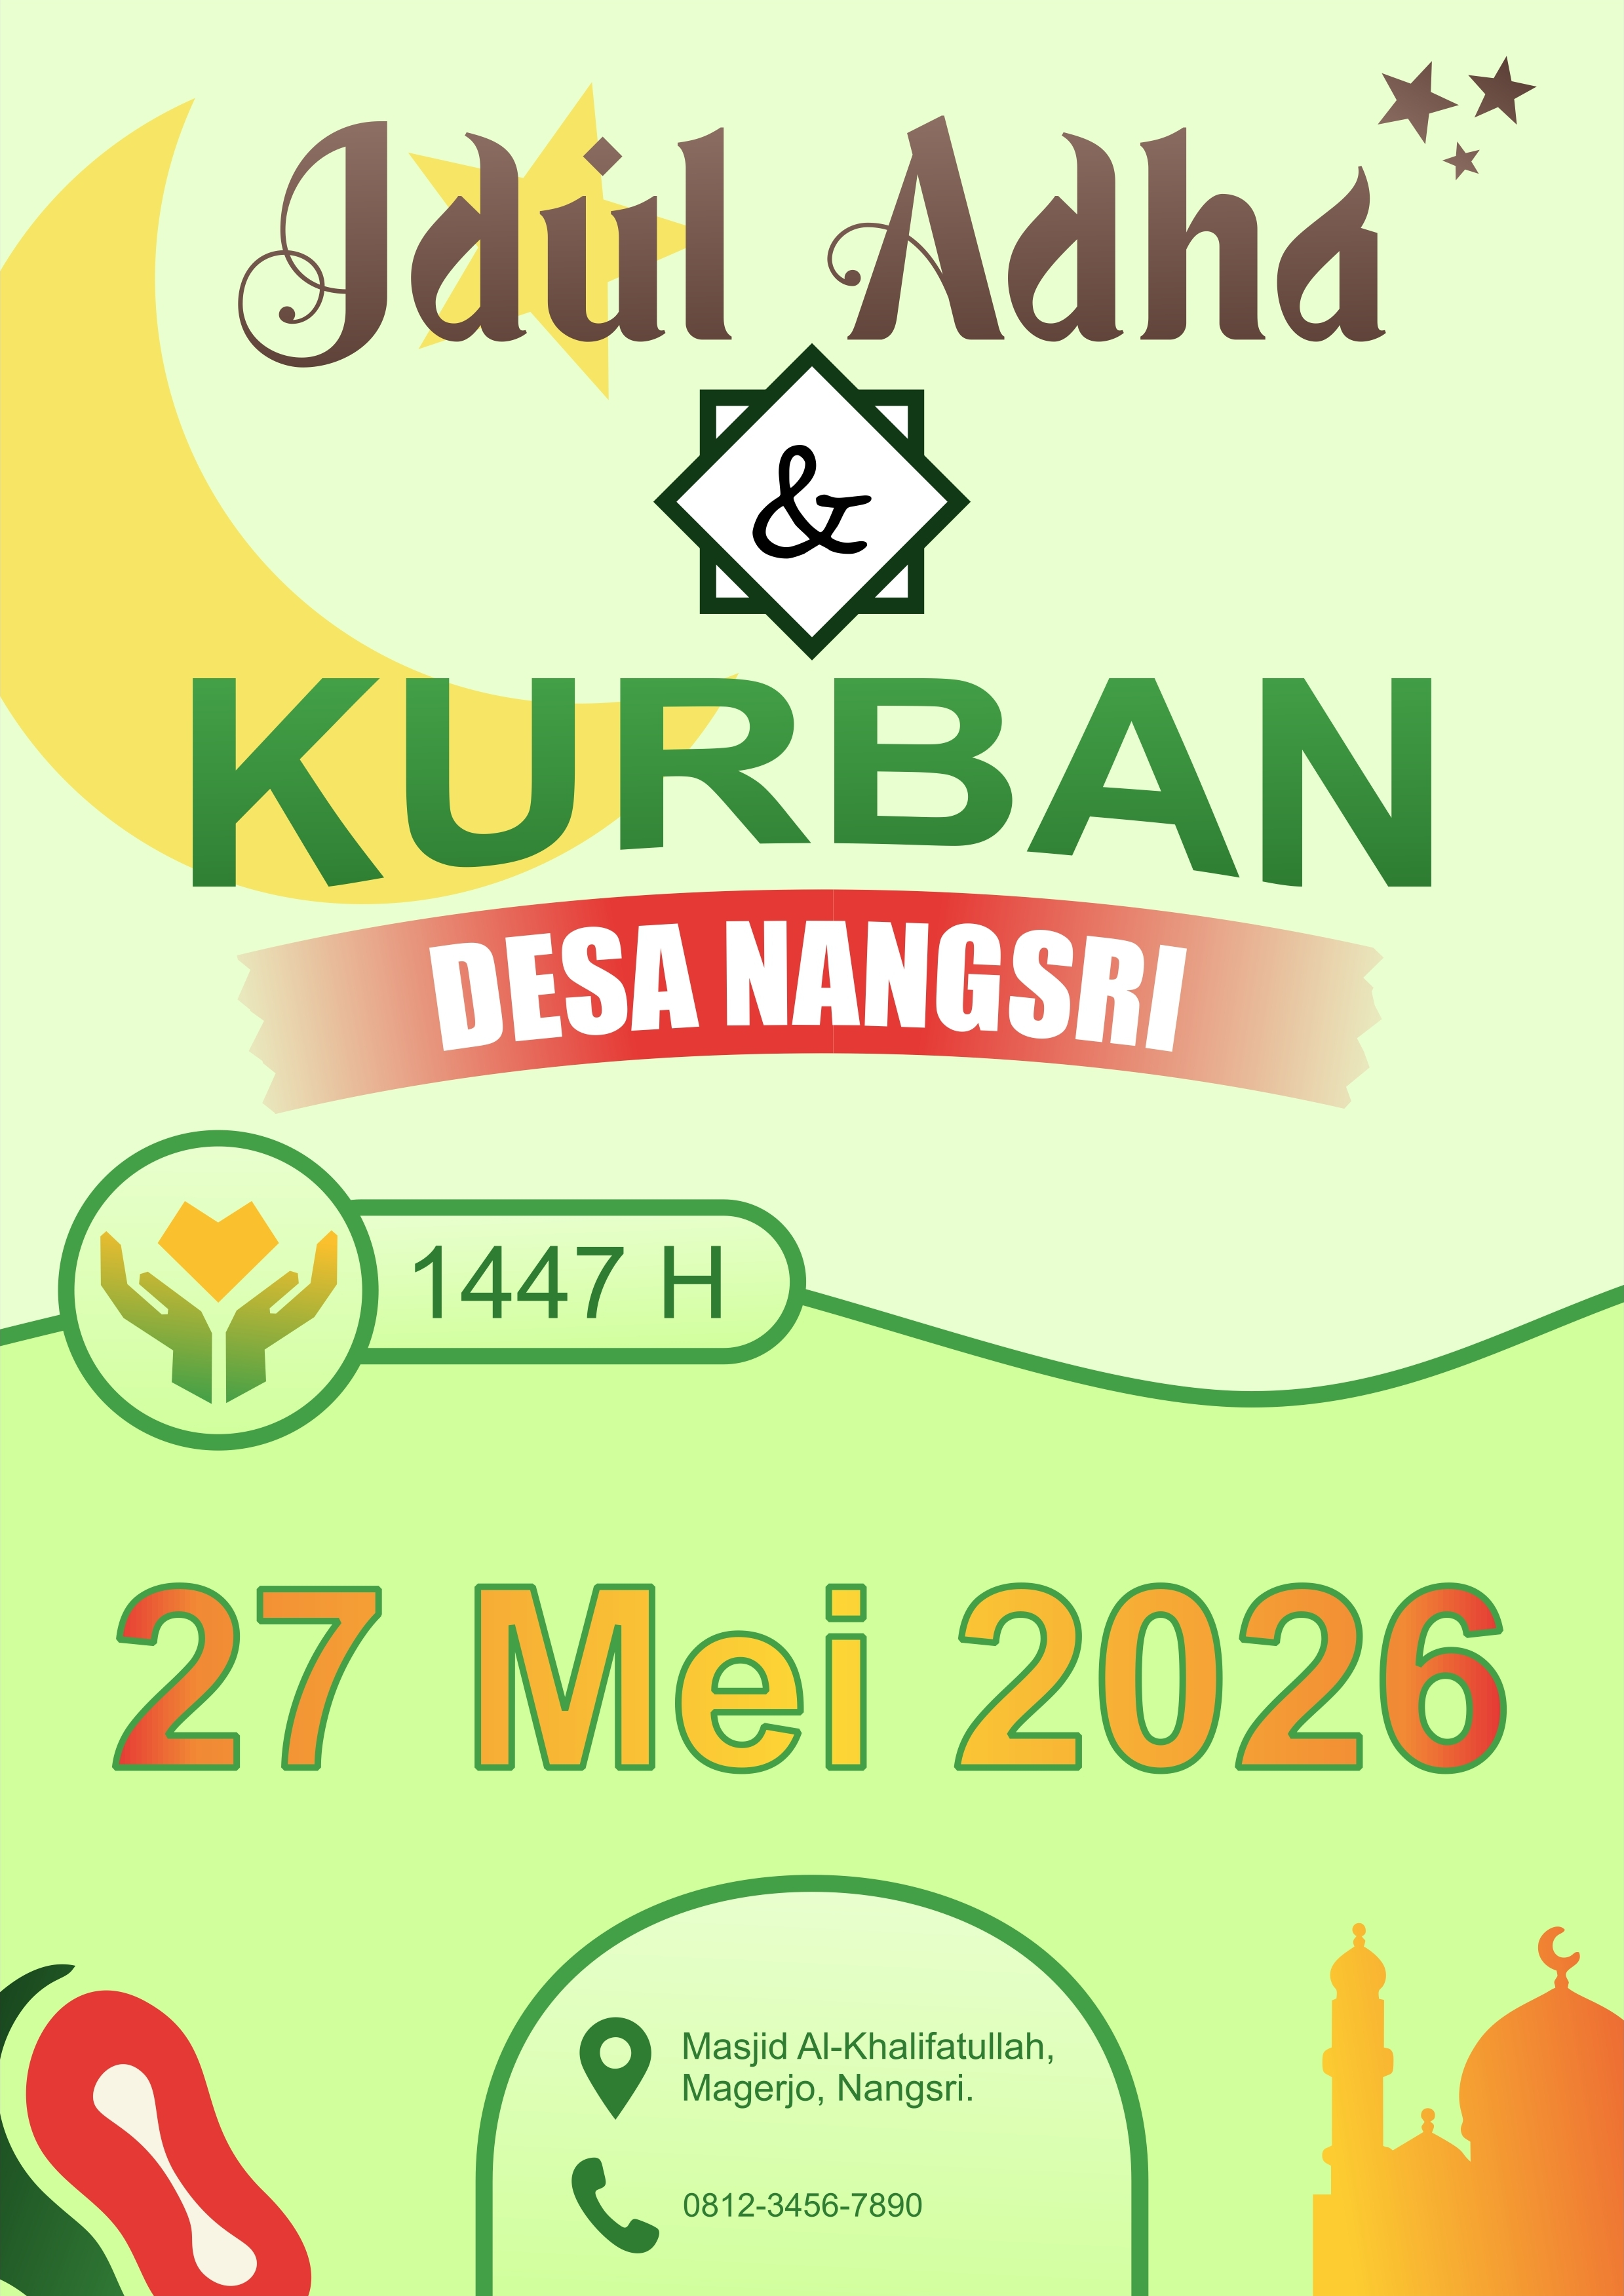
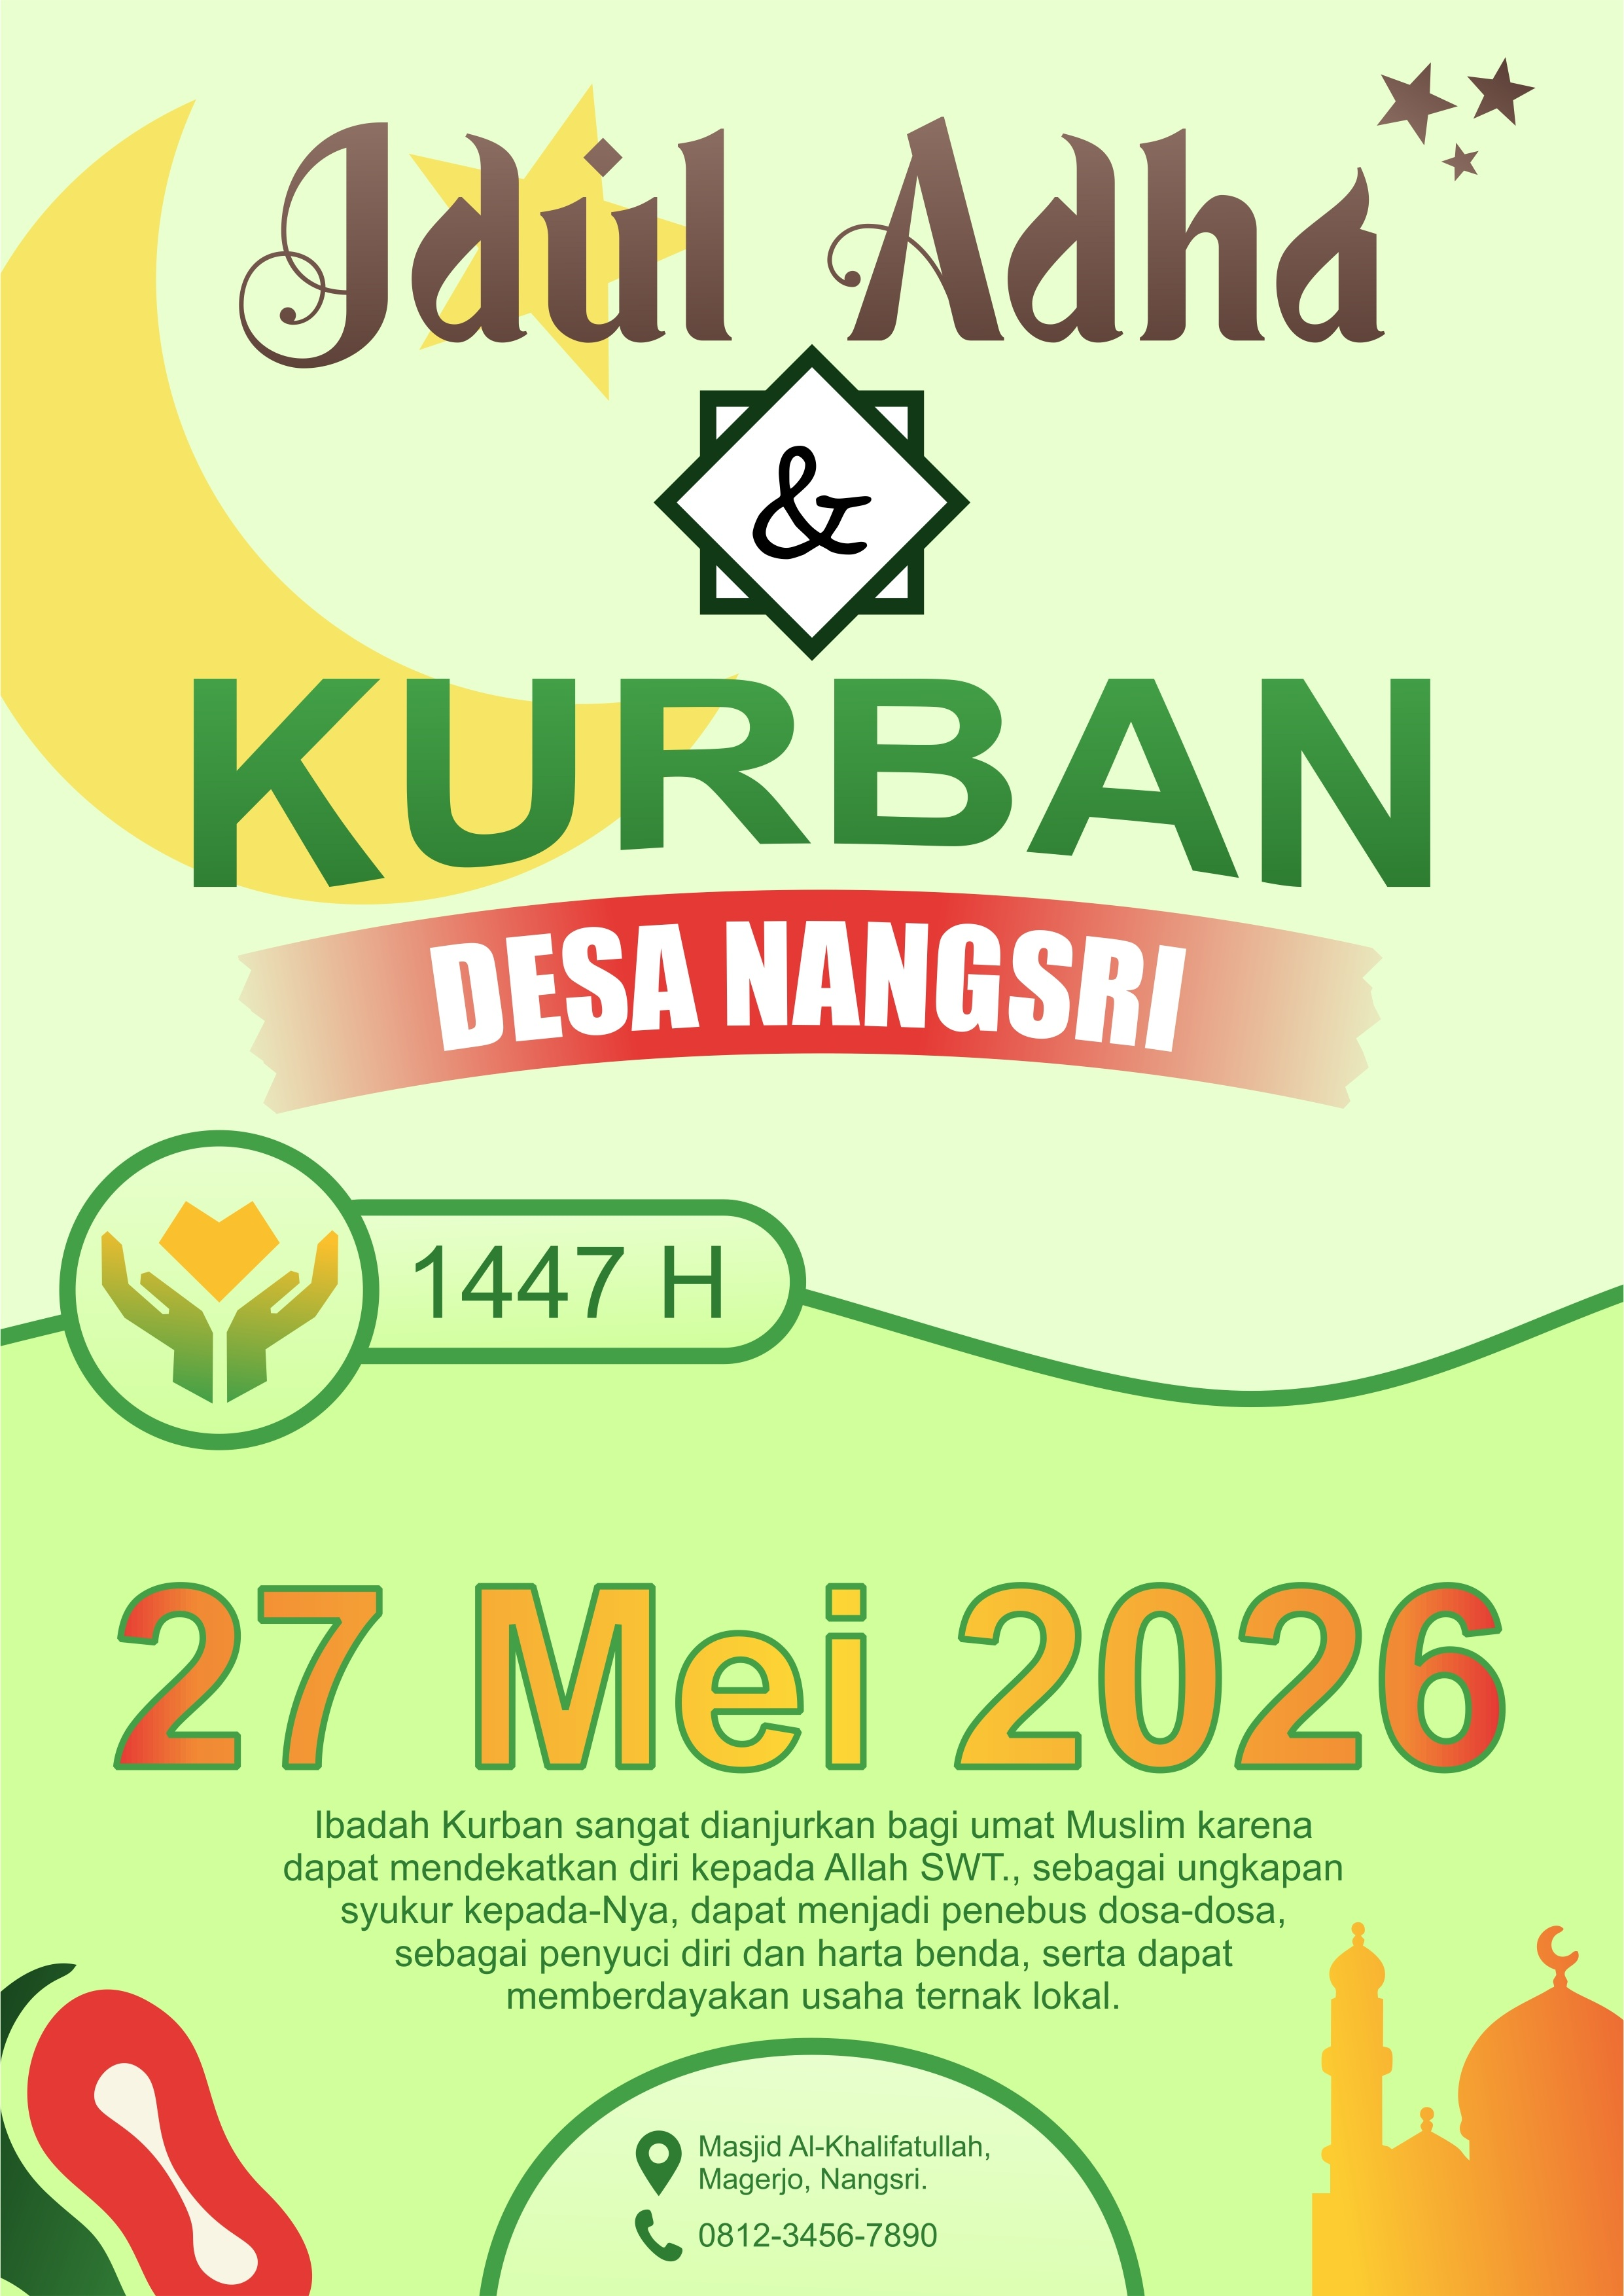
mmm

diff --git a/style.css b/style.css
@@ -5,9 +5,9 @@
   --bg-dark: rgb(71, 92, 45);
   --text-dark: rgb(0, 0, 0);
   --light-v: rgb(138, 138, 255);
-  --dark-v: blue;
+  --dark-v: rgb(0, 0, 255);
   --light-m: rgb(255, 138, 138);
-  --dark-m: red;
+  --dark-m: rgb(255, 0, 0);
   --light-vorm: rgb(208, 138, 255);
   --dark-vorm: rgb(102, 0, 255);
   --eat-speed: 0.5s;
@@ -161,7 +161,7 @@ nav {
 }
 
 .banner-container {
-  background: #e5e5d1;
+  background: #566167;
   margin: auto;
   border-radius: var(--border-radius);
   width: 1500px;
@@ -479,98 +479,6 @@ nav {
   color: rgba(255, 255, 255, 0);
   overflow: hidden;
   animation: smaller-h var(--eat-speed) ease;
-}
-
-@keyframes m-change-color {
-  0% {
-    background: linear-gradient(180deg, rgb(255, 138, 138), rgb(255, 0, 0));
-  }
-
-  10% {
-    background: linear-gradient(180deg, rgb(250, 138, 150), rgb(240, 0, 25));
-  }
-
-  20% {
-    background: linear-gradient(180deg, rgb(245, 138, 162), rgb(225, 0, 50));
-  }
-
-  30% {
-    background: linear-gradient(180deg, rgb(240, 138, 175), rgb(210, 0, 75));
-  }
-
-  40% {
-    background: linear-gradient(180deg, rgb(235, 138, 188), rgb(195, 0, 100));
-  }
-
-  50% {
-    background: linear-gradient(180deg, rgb(230, 138, 200), rgb(180, 0, 130));
-  }
-
-  60% {
-    background: linear-gradient(180deg, rgb(225, 138, 212), rgb(165, 0, 160));
-  }
-
-  70% {
-    background: linear-gradient(180deg, rgb(220, 138, 225), rgb(145, 0, 190));
-  }
-
-  80% {
-    background: linear-gradient(180deg, rgb(215, 138, 238), rgb(125, 0, 220));
-  }
-
-  90% {
-    background: linear-gradient(180deg, rgb(210, 138, 248), rgb(110, 0, 240));
-  }
-
-  100% {
-    background: linear-gradient(180deg, rgb(208, 138, 255), rgb(102, 0, 255));
-  }
-}
-
-@keyframes v-change-color {
-  0% {
-    background: linear-gradient(180deg, rgb(138, 138, 255), rgb(0, 0, 255));
-  }
-
-  10% {
-    background: linear-gradient(180deg, rgb(145, 138, 255), rgb(10, 0, 255));
-  }
-
-  20% {
-    background: linear-gradient(180deg, rgb(152, 138, 255), rgb(20, 0, 255));
-  }
-
-  30% {
-    background: linear-gradient(180deg, rgb(160, 138, 255), rgb(30, 0, 255));
-  }
-
-  40% {
-    background: linear-gradient(180deg, rgb(168, 138, 255), rgb(45, 0, 255));
-  }
-
-  50% {
-    background: linear-gradient(180deg, rgb(176, 138, 255), rgb(55, 0, 255));
-  }
-
-  60% {
-    background: linear-gradient(180deg, rgb(184, 138, 255), rgb(65, 0, 255));
-  }
-
-  70% {
-    background: linear-gradient(180deg, rgb(192, 138, 255), rgb(75, 0, 255));
-  }
-
-  80% {
-    background: linear-gradient(180deg, rgb(198, 138, 255), rgb(85, 0, 255));
-  }
-
-  90% {
-    background: linear-gradient(180deg, rgb(204, 138, 255), rgb(95, 0, 255));
-  }
-
-  100% {
-    background: linear-gradient(180deg, rgb(208, 138, 255), rgb(102, 0, 255));
-  }
 }
 
 @keyframes cont-smallen {

diff --git a/script.js b/script.js
@@ -57,12 +57,62 @@ function zoomImage(item) {
     })
 }
 
+class RGB {
+    constructor(string) {
+        let number_string = string.slice(4, string.length - 1)
+        let value_array = number_string.split(",")
+        this.r = Number(value_array[0].trim())
+        this.g = Number(value_array[1].trim())
+        this.b = Number(value_array[2].trim())
+    }
+}
+
+function lerpColor(from, to, t) {
+    return "rgb(" +
+    Math.round(from.r + ((to.r - from.r) * t)).toString() + ", " +
+    Math.round(from.g + ((to.g - from.g) * t)).toString() + ", " +
+    Math.round(from.b + ((to.b - from.b) * t)).toString() + ")"
+}
+
 const root = document.documentElement
-// const style = getComputedStyle(root
+const style = getComputedStyle(root)
+const v_b = new RGB(style.getPropertyValue("--light-v").trim())
+const m_b = new RGB(style.getPropertyValue("--light-m").trim())
+const vorm_b = new RGB(style.getPropertyValue("--light-vorm").trim())
+const vorm_a = new RGB(style.getPropertyValue("--dark-vorm").trim())
+const m_a = new RGB(style.getPropertyValue("--dark-m").trim())
+const v_a = new RGB(style.getPropertyValue("--dark-v").trim())
 
+function keyframesString(step) {
+    let keyframesString = "@keyframes m-change-color {"
+    
+    for (i = 0; i < step; i++) {
+        let t = i / (step - 1)
+        console.log(t)
+        keyframesString += `${Math.round(t * 100)}% {
+            background: linear-gradient(180deg, ${lerpColor(m_b, vorm_b, t)}, ${lerpColor(m_a, vorm_a, t)})
+        }`
+    }
 
-// const color_lerp = document.createElement("style")
-// color_lerp.innerHTML = `
+    keyframesString += "}"
 
+    keyframesString += "@keyframes v-change-color {"
+    
+    for (i = 0; i < step; i++) {
+        let t = i / (step - 1)
+        console.log(t)
+        keyframesString += `${Math.round(t * 100)}% {
+            background: linear-gradient(180deg, ${lerpColor(v_b, vorm_b, t)}, ${lerpColor(v_a, vorm_a, t)})
+        }`
+    }
 
-// `
+    keyframesString += "}"
+
+    return keyframesString
+}
+
+let color_lerp = document.createElement("style")
+
+color_lerp.textContent = keyframesString(101)
+
+document.head.appendChild(color_lerp)